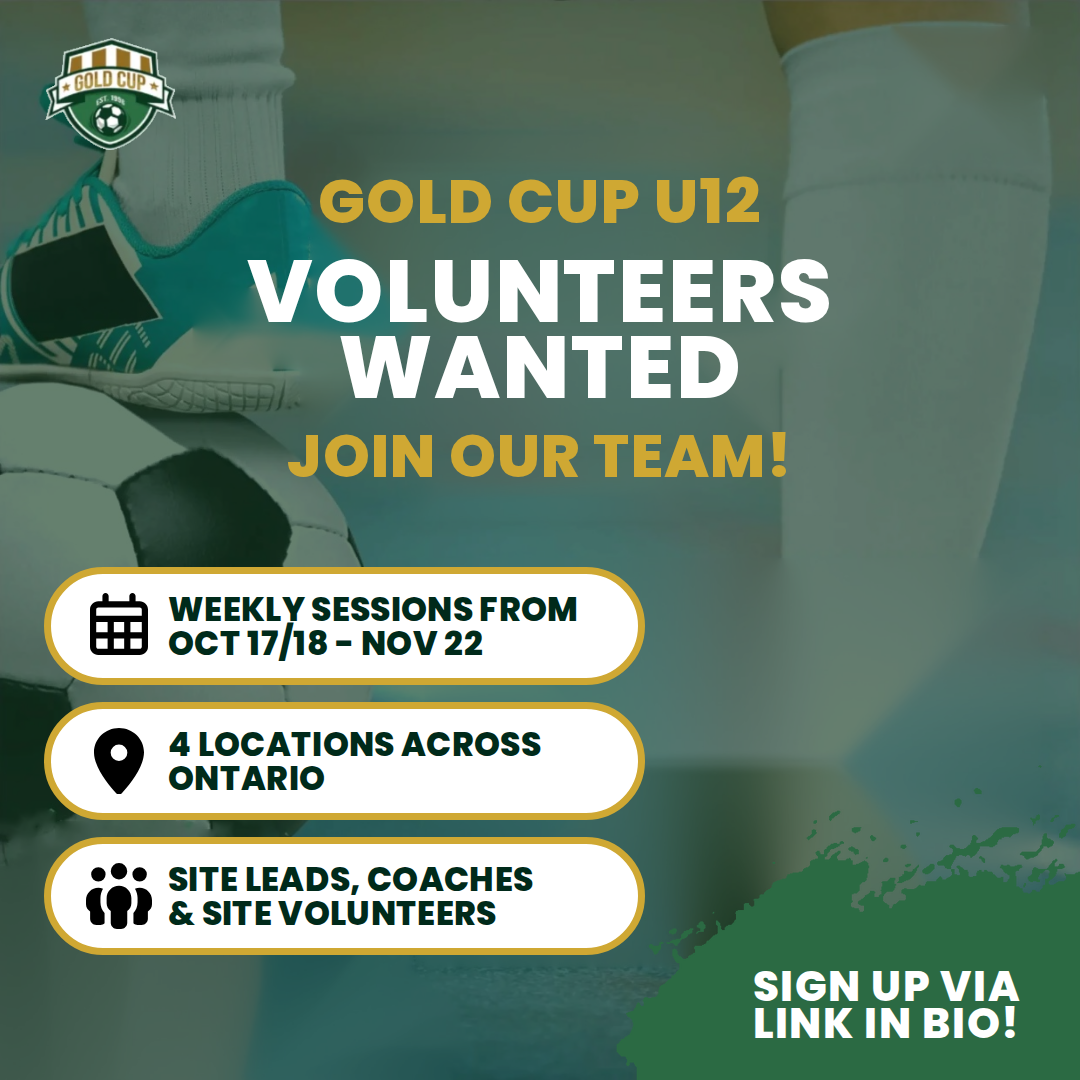
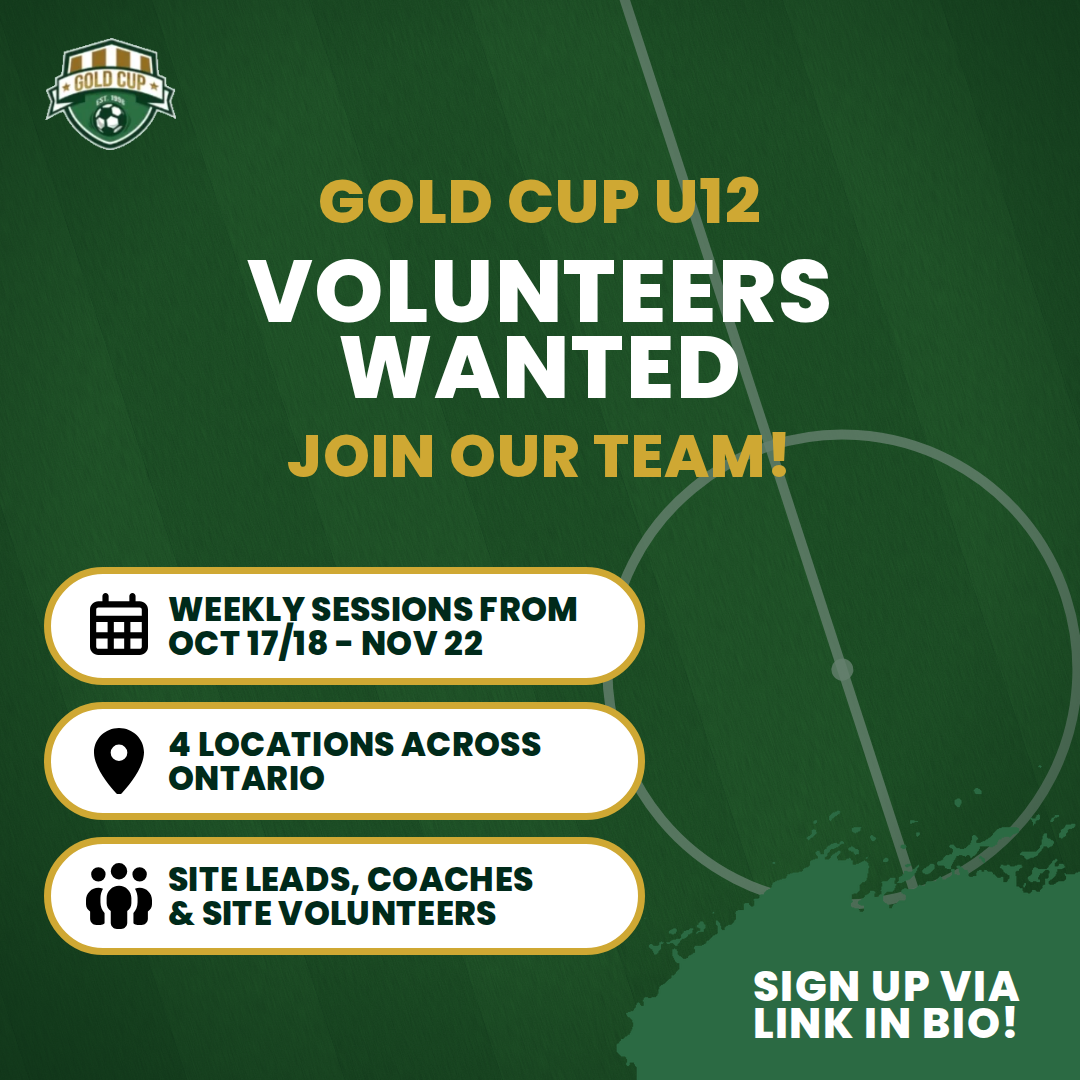
Add layouts and backgrounds to Gold Cup graphics kit
Posts were all one layout on one photo, which reads as repetitive in a
feed. Brand pieces stay fixed; each post now picks a layout (info,
callout, countdown) and a background (photo or drawn pitch/net).
Adds a recreation of the volunteer callout post as a second
calibration reference.

Claude-Session: https://claude.ai/code/session_011NCyf21LWwMLcWSEt48o9K

diff --git a/gold-cup-graphics/template.html b/gold-cup-graphics/template.html
@@ -19,42 +19,62 @@
   .frame { position: relative; width: 1080px; height: 1080px; overflow: hidden;
            font-family: "Poppins", sans-serif; font-weight: 800; text-transform: uppercase; }
 
-  .photo-wrap { position: absolute; inset: 0; overflow: hidden; }
-  .photo { width: 100%; height: 100%; object-fit: cover; display: block; }
+  .bg { position: absolute; inset: 0; overflow: hidden; }
+  .bg img, .bg svg { width: 100%; height: 100%; object-fit: cover; display: block; }
   .overlay { position: absolute; inset: 0; background: var(--photo-overlay); }
-
   .logo { position: absolute; left: 45px; top: 38px; width: 131px; }
 
-  /* text-box trim makes every line box exactly cap-height tall, so gaps below are cap-to-cap */
+  /* text-box trim makes every line box exactly cap-height tall, so margins below are cap-to-cap */
   .line { text-box: trim-both cap alphabetic; white-space: nowrap; }
 
-  .headline-zone { position: absolute; left: 0; right: 0; top: 110px;
-                   display: flex; flex-direction: column; align-items: center; justify-content: center; }
+  .stack { position: absolute; left: 0; right: 0; top: 110px;
+           display: flex; flex-direction: column; align-items: center; justify-content: center; }
+  .layout-callout .stack, .layout-countdown .stack { justify-content: flex-end; }
+
   .kicker  { color: var(--gold);  font-size: 62px; letter-spacing: 0.02em; }
+  .number  { color: var(--gold);  font-size: 330px; letter-spacing: -0.02em; }
   .head    { color: var(--white); font-size: 88px; letter-spacing: 0.02em; }
-  .tagline { color: var(--gold);  font-size: 60px; letter-spacing: 0.02em; }
-  .kicker + .head, .head + .tagline { margin-top: 37px; }
+  .sub     { color: var(--gold);  font-size: 60px; letter-spacing: 0.02em; }
+  .layout-callout .head { font-size: 103px; letter-spacing: 0.01em; }
+
+  .stack > * + * { margin-top: 37px; }
   .head + .head { margin-top: 13px; }
+  .sub + .sub { margin-top: 10px; }
+  .layout-callout .head + .head { margin-top: 14px; }
+  .layout-callout .head + .sub { margin-top: 40px; }
+  .number + .head { margin-top: 44px; }
+  .kicker + .number { margin-top: 60px; }
 
   .pills { position: absolute; left: 44px; bottom: 125px; display: flex; flex-direction: column; gap: 17px; }
   .pill { width: 601px; height: 118px; background: var(--white); border: 7px solid var(--gold);
           border-radius: 59px; display: flex; align-items: center; }
   .pill .icon { width: 72px; height: 66px; margin-left: 32px; flex: none; object-fit: contain; }
-  .pill .line { letter-spacing: 0.01em; }
   .pill .text { margin-left: 13px; color: var(--pill-text); font-size: 33px;
                 display: flex; flex-direction: column; align-items: flex-start; gap: 11px; }
+  .pill .line { letter-spacing: 0.01em; }
+
+  .button { position: absolute; left: 160px; top: 789px; width: 759px; height: 135px; background: var(--white);
+            border: 9px solid var(--gold); border-radius: 68px; display: flex; align-items: center; justify-content: center;
+            color: var(--pill-text); font-size: 35px; }
+  .button.has-icon { padding-right: 18px; }
+  .button .line { letter-spacing: 0.01em; }
+  .button .icon { position: absolute; right: -14px; bottom: -24px; width: 74px; height: 88px; }
 
   .brush { position: absolute; inset: 0; width: 100%; height: 100%; }
-
-  .cta .line { letter-spacing: 0.04em; }
   .cta { position: absolute; left: 687px; width: 400px; bottom: 42px; color: var(--white);
          font-size: 42px; display: flex; flex-direction: column; align-items: center; gap: 7px; }
+  .cta .line { letter-spacing: 0.04em; }
 </style>
 </head>
 <body>
 <div class="frame" id="frame"></div>
 <script>
-const LIMITS = { headWidth: 940, pillTextWidth: 445, ctaWidth: 360, zoneGapAbovePills: 21 };
+const LAYOUTS = {
+  info:      { head: 940, allowed: ['kicker', 'headline', 'sub', 'pills', 'cta'] },
+  callout:   { head: 960, allowed: ['kicker', 'headline', 'sub', 'button', 'cta'] },
+  countdown: { head: 940, allowed: ['kicker', 'number', 'headline', 'sub', 'pills', 'button', 'cta'] },
+};
+const LIMITS = { sub: 960, pillText: 445, button: 640, cta: 360, gapAbovePills: 21, gapAbovePillsAnchored: 55, gapAboveButton: 81 };
 
 function el(tag, cls, parent, text) {
   const n = document.createElement(tag);
@@ -80,69 +100,160 @@ function textWidth(node) {
 }
 
 function shrinkToWidth(nodes, max, warnings, label) {
+  if (!nodes.length) return;
   const widest = Math.max(...nodes.map(textWidth));
-  if (widest <= max) return 1;
+  if (widest <= max) return;
   const k = max / widest;
   for (const n of nodes) n.style.fontSize = parseFloat(getComputedStyle(n).fontSize) * k + 'px';
   if (k < 0.8) warnings.push(`${label} shrunk to ${Math.round(k * 100)}% to fit; consider shorter copy`);
-  return k;
+}
+
+const asList = v => (v == null ? [] : Array.isArray(v) ? v : [v]);
+
+// Drawn backgrounds, for posts without a suitable photo. Colours are bright on purpose:
+// the shared overlay pulls them into the same tone as the photos.
+const PATTERNS = {
+  pitch({ angle = -18, x = 50, y = 50, r = 235 } = {}) {
+    const cx = 10.8 * x, cy = 10.8 * y, band = 150, lines = 'stroke="#fff" stroke-width="10" fill="none" opacity="0.8"';
+    let stripes = '';
+    for (let i = -10; i < 10; i++) stripes += `<rect x="${cx + i * band}" y="${cy - 1500}" width="${band}" height="3000" fill="${i % 2 ? '#3f8f3c' : '#368034'}"/>`;
+    return `<svg viewBox="0 0 1080 1080" xmlns="http://www.w3.org/2000/svg">
+      <defs>
+        <filter id="blades"><feTurbulence type="fractalNoise" baseFrequency="0.9 0.05" numOctaves="2" seed="7"/>
+          <feColorMatrix values="0 0 0 0 0  0 0 0 0 0  0 0 0 0 0  0 0 0 0.35 0"/></filter>
+        <filter id="grain"><feTurbulence type="fractalNoise" baseFrequency="0.75" numOctaves="3" seed="2"/>
+          <feColorMatrix values="0 0 0 0 1  0 0 0 0 1  0 0 0 0 1  0 0 0 0.12 0"/></filter>
+        <radialGradient id="vig" cx="50%" cy="45%" r="75%"><stop offset="55%" stop-opacity="0"/><stop offset="100%" stop-opacity="0.55"/></radialGradient>
+      </defs>
+      <g transform="rotate(${angle} ${cx} ${cy})">
+        ${stripes}
+        <rect x="${cx - 1500}" y="${cy - 1500}" width="3000" height="3000" filter="url(#blades)"/>
+        <line x1="${cx}" y1="${cy - 1500}" x2="${cx}" y2="${cy + 1500}" ${lines}/>
+        <circle cx="${cx}" cy="${cy}" r="${r}" ${lines}/>
+        <circle cx="${cx}" cy="${cy}" r="11" fill="#fff" opacity="0.8"/>
+      </g>
+      <rect width="1080" height="1080" filter="url(#grain)"/>
+      <rect width="1080" height="1080" fill="url(#vig)"/>
+    </svg>`;
+  },
+  net({ angle = 0, x = 50, y = 30 } = {}) {
+    const cell = 46;
+    return `<svg viewBox="0 0 1080 1080" xmlns="http://www.w3.org/2000/svg">
+      <defs>
+        <radialGradient id="sky" cx="${x}%" cy="${y}%" r="85%"><stop offset="0%" stop-color="#cfe6c9"/><stop offset="35%" stop-color="#4f8a55"/><stop offset="100%" stop-color="#0f2a16"/></radialGradient>
+        <radialGradient id="glow" cx="50%" cy="50%" r="50%"><stop offset="0%" stop-color="#fff" stop-opacity="0.9"/><stop offset="100%" stop-color="#fff" stop-opacity="0"/></radialGradient>
+        <pattern id="mesh" width="${cell}" height="${cell}" patternUnits="userSpaceOnUse" patternTransform="rotate(${45 + angle})">
+          <path d="M0 0H${cell}M0 0V${cell}" stroke="#fff" stroke-width="3.2" fill="none"/>
+          <circle r="3.6" fill="#fff"/>
+        </pattern>
+        <filter id="soft"><feGaussianBlur stdDeviation="2.2"/></filter>
+        <linearGradient id="depth" x1="0" y1="0" x2="1" y2="1"><stop offset="0%" stop-color="#fff"/><stop offset="100%" stop-color="#fff" stop-opacity="0.15"/></linearGradient>
+        <mask id="fade"><rect width="1080" height="1080" fill="url(#depth)"/></mask>
+        <filter id="grain"><feTurbulence type="fractalNoise" baseFrequency="0.75" numOctaves="3" seed="4"/>
+          <feColorMatrix values="0 0 0 0 1  0 0 0 0 1  0 0 0 0 1  0 0 0 0.1 0"/></filter>
+      </defs>
+      <rect width="1080" height="1080" fill="url(#sky)"/>
+      <circle cx="${10.8 * x - 260}" cy="${10.8 * y - 120}" r="190" fill="url(#glow)"/>
+      <circle cx="${10.8 * x + 300}" cy="${10.8 * y - 160}" r="150" fill="url(#glow)"/>
+      <g mask="url(#fade)" opacity="0.75">
+        <rect x="-200" y="-200" width="1480" height="1480" fill="url(#mesh)" filter="url(#soft)"/>
+      </g>
+      <rect width="1080" height="1080" fill="url(#mesh)" opacity="0.35" mask="url(#fade)"/>
+      <rect width="1080" height="1080" filter="url(#grain)"/>
+    </svg>`;
+  },
+};
+
+async function renderBackground(frame, post, warnings) {
+  const bg = el('div', 'bg', frame);
+  if (post.pattern) {
+    const make = PATTERNS[post.pattern.type];
+    if (!make) warnings.push(`unknown pattern "${post.pattern.type}" (use ${Object.keys(PATTERNS).join(', ')})`);
+    else bg.innerHTML = make(post.pattern);
+    return;
+  }
+  const img = await loadImg(bg, '', post.photo, warnings);
+  // focus is given in on-screen terms, so mirror its x when the photo is flipped
+  let [fx, fy] = (post.photoFocus || '50% 50%').split(/\s+/).map(parseFloat);
+  if (post.photoFlip) { fx = 100 - fx; bg.style.transform = 'scaleX(-1)'; }
+  img.style.objectPosition = img.style.transformOrigin = `${fx}% ${fy}%`;
+  img.style.transform = `scale(${post.photoZoom || 1})`;
 }
 
 window.render = async function (post) {
   const warnings = [];
+  const layoutName = post.layout || 'info';
+  const layout = LAYOUTS[layoutName];
+  if (!layout) return [`unknown layout "${layoutName}" (use ${Object.keys(LAYOUTS).join(', ')})`];
+  for (const key of ['kicker', 'number', 'headline', 'sub', 'pills', 'button', 'cta'])
+    if (post[key] != null && !layout.allowed.includes(key)) warnings.push(`"${key}" is not used by the ${layoutName} layout`);
+
   const frame = document.getElementById('frame');
   frame.innerHTML = '';
-  const waits = [];
-
-  const photo = loadImg(el('div', 'photo-wrap', frame), 'photo', post.photo, warnings);
-  waits.push(photo.then(img => {
-    // focus is given in on-screen terms, so mirror its x when the photo is flipped
-    let [fx, fy] = (post.photoFocus || '50% 50%').split(/\s+/).map(parseFloat);
-    if (post.photoFlip) fx = 100 - fx;
-    img.style.objectPosition = img.style.transformOrigin = `${fx}% ${fy}%`;
-    img.style.transform = `scale(${post.photoZoom || 1})`;
-    if (post.photoFlip) frame.querySelector('.photo-wrap').style.transform = 'scaleX(-1)';
-  }));
+  frame.className = `frame layout-${layoutName}`;
+  const waits = [renderBackground(frame, post, warnings)];
   el('div', 'overlay', frame);
   waits.push(loadImg(frame, 'logo', 'assets/logo.png', warnings));
 
-  const zone = el('div', 'headline-zone', frame);
-  if (post.kicker) el('div', 'line kicker', zone, post.kicker);
-  const heads = (post.headline || []).map(t => el('div', 'line head', zone, t));
-  if (post.tagline) el('div', 'line tagline', zone, post.tagline);
+  const stack = el('div', 'stack', frame);
+  const use = key => layout.allowed.includes(key) && post[key] != null;
+  if (use('kicker')) el('div', 'line kicker', stack, post.kicker);
+  if (use('number')) el('div', 'line number', stack, post.number);
+  const heads = use('headline') ? asList(post.headline).map(t => el('div', 'line head', stack, t)) : [];
+  const subs = use('sub') ? asList(post.sub).map(t => el('div', 'line sub', stack, t)) : [];
 
-  const pills = el('div', 'pills', frame);
+  let bottomTop = 955, gap = LIMITS.gapAbovePills;
   const pillLines = [];
-  for (const p of post.pills || []) {
-    const pill = el('div', 'pill', pills);
-    waits.push(loadImg(pill, 'icon', `assets/icons/${p.icon}.svg`, warnings));
-    const text = el('div', 'text', pill);
-    for (const t of p.lines) pillLines.push(el('div', 'line', text, t));
+  if (use('pills')) {
+    const pills = el('div', 'pills', frame);
+    for (const p of post.pills) {
+      const pill = el('div', 'pill', pills);
+      waits.push(loadImg(pill, 'icon', `assets/icons/${p.icon}.svg`, warnings));
+      const text = el('div', 'text', pill);
+      for (const t of asList(p.lines)) pillLines.push(el('div', 'line', text, t));
+    }
+    if (post.pills.length > 3) warnings.push('more than 3 pills breaks the grid');
+    bottomTop = () => pills.getBoundingClientRect().top;
+    // info centres its text block; bottom-anchored layouts need the gap the centring would give
+    if (layoutName !== 'info') gap = LIMITS.gapAbovePillsAnchored;
   }
-  if ((post.pills || []).length > 3) warnings.push('more than 3 pills breaks the grid');
-
-  waits.push(loadImg(frame, 'brush', 'assets/brush.png', warnings));
-  const cta = el('div', 'cta', frame);
-  const ctaLines = (post.cta || []).map(t => el('div', 'line', cta, t));
+  let buttonText = [];
+  if (use('pills') && use('button')) warnings.push('use pills or a button, not both — they overlap');
+  else if (use('button')) {
+    const button = el('div', 'button', frame);
+    buttonText = [el('div', 'line', button, post.button.text)];
+    if (post.button.icon) {
+      button.classList.add('has-icon');
+      waits.push(loadImg(button, 'icon', `assets/icons/${post.button.icon}.svg`, warnings));
+    }
+    bottomTop = 789;
+    gap = LIMITS.gapAboveButton;
+  }
+  let ctaLines = [];
+  if (use('cta')) {
+    waits.push(loadImg(frame, 'brush', 'assets/brush.png', warnings));
+    const cta = el('div', 'cta', frame);
+    ctaLines = asList(post.cta).map(t => el('div', 'line', cta, t));
+  }
 
   await document.fonts.ready;
   await Promise.all(waits);
 
-  if (heads.length) shrinkToWidth(heads, LIMITS.headWidth, warnings, 'headline');
-  if (pillLines.length) shrinkToWidth(pillLines, LIMITS.pillTextWidth, warnings, 'pill text');
-  if (ctaLines.length) shrinkToWidth(ctaLines, LIMITS.ctaWidth, warnings, 'call to action');
+  shrinkToWidth(heads, layout.head, warnings, 'headline');
+  shrinkToWidth(subs, LIMITS.sub, warnings, 'gold subline');
+  shrinkToWidth(pillLines, LIMITS.pillText, warnings, 'pill text');
+  shrinkToWidth(buttonText, LIMITS.button, warnings, 'button text');
+  shrinkToWidth(ctaLines, LIMITS.cta, warnings, 'call to action');
 
-  const pillsTop = (post.pills || []).length ? pills.getBoundingClientRect().top : 955;
-  const zoneHeight = pillsTop - LIMITS.zoneGapAbovePills - 110;
-  zone.style.height = zoneHeight + 'px';
-  const blockHeight = [...zone.children].reduce((h, n) => {
-    const r = n.getBoundingClientRect();
-    return h + r.height + parseFloat(getComputedStyle(n).marginTop);
-  }, 0);
+  const zoneHeight = (typeof bottomTop === 'function' ? bottomTop() : bottomTop) - gap - 110;
+  stack.style.height = zoneHeight + 'px';
+  const blockHeight = [...stack.children].reduce((h, n) =>
+    h + n.getBoundingClientRect().height + parseFloat(getComputedStyle(n).marginTop), 0);
   if (blockHeight > zoneHeight) {
     const k = zoneHeight / blockHeight;
-    zone.style.transform = `scale(${k})`;
-    warnings.push(`headline block scaled to ${Math.round(k * 100)}% to fit above the pills`);
+    stack.style.transformOrigin = layoutName === 'info' ? 'center' : 'center bottom';
+    stack.style.transform = `scale(${k})`;
+    warnings.push(`text block scaled to ${Math.round(k * 100)}% to fit; consider fewer lines`);
   }
   return warnings;
 };

diff --git a/gold-cup-graphics/README.md b/gold-cup-graphics/README.md
@@ -1,45 +1,64 @@
 # Gold Cup Instagram graphics
 
-Renders 1080×1080 Instagram posts in the Gold Cup "U12 Development Program is back" style.
-Layout, type sizes and colours are measured from the original post, so every graphic comes out
-on the same grid. `out/00-u12-program-is-back.png` is a recreation of the original, kept as a check.
+Renders 1080×1080 Instagram posts in the Gold Cup style. The brand parts never change: font, colours, logo,
+photo overlay, pill and button styles. Each post picks a layout and a background, so the feed doesn't repeat itself.
+
+`out/ref-1-u12-program.png` and `out/ref-2-volunteer-callout.png` recreate two real Gold Cup posts. They're
+the calibration check: if a change to `template.html` makes them drift from the originals, the change is off-brand.
 
 ## Make a new post
 
-1. Copy a file in `posts/` (e.g. `01-volunteers-wanted.json`) and edit the text.
+1. Copy a file in `posts/` that has the layout you want, then edit the text.
 2. `npm install` (first time only), then `npm run render` — PNGs land in `out/`.
    Render one file with `node render.mjs posts/my-post.json`.
 3. Read the warnings it prints. "Shrunk to N%" means the copy is too long; shorten it rather than accept tiny text.
 
-| Field | What it is | Keep it to |
-| --- | --- | --- |
-| `kicker` | Gold line above the headline | a few words |
-| `headline` | White lines, one string per line | 1–4 lines, ~12 characters each |
-| `tagline` | Gold line under the headline | a short exclamation |
-| `pills` | `{ "icon", "lines" }` info badges | 2–3 pills, 2 lines each, ~20 characters per line |
-| `cta` | White text on the green brush, bottom right | 1–2 lines, ~13 characters each |
-| `photo` | Background photo path | a real session photo |
-| `photoFlip`, `photoZoom`, `photoFocus` | Optional framing (`true`, `1.2`, `"100% 60%"`) | |
+## Layouts
 
-Icons (`assets/icons/`): `calendar-days`, `clock`, `location-dot`, `trophy`, `medal`, `people-group`,
-`users`, `user-plus`, `hand-holding-heart`, `graduation-cap`, `clipboard-list`, `bullhorn`, `futbol`.
-More can be copied from Font Awesome Free (solid set).
+| `layout` | Use it for | Fields |
+| --- | --- | --- |
+| `info` | Announcements with details (the U12 "is back" post) | `kicker`, `headline`, `sub`, `pills` (≤3), `cta` |
+| `callout` | A question or one clear action (the volunteer post) | `kicker`, `headline` (bigger), `sub`, `button` |
+| `countdown` | "3 days to go", "4 locations", any big number | `kicker`, `number`, `headline`, `sub`, `pills` or `button`, `cta` |
+
+- `kicker` / `sub`: gold lines above / below the white headline. `sub` can be one line or a list.
+- `headline`: white lines, one string per line, ~12 characters each.
+- `pills`: `{ "icon": "...", "lines": ["...", "..."] }`, 2 lines of ~20 characters.
+- `button`: `{ "text": "...", "icon": "cursor-click" }` — the wide white button; the icon is optional.
+- `cta`: 1–2 short lines on the green brush stroke, bottom right.
+
+## Backgrounds — vary these
+
+Every background gets the same deep-green overlay, so different backgrounds still read as one series.
+Don't use the same background two posts in a row.
+
+- A photo: `"photo": "assets/photos/x.jpg"`, optionally `"photoFlip": true`, `"photoZoom": 1.4`,
+  `"photoFocus": "50% 0%"` (which part of the photo stays in frame). Close-ups and flips of one photo
+  can look like a new shot.
+- A drawn pitch: `"pattern": { "type": "pitch", "angle": -18, "x": 78, "y": 62, "r": 235 }`. `x`/`y` (percent)
+  place the centre circle, `angle` turns the field, `r` sizes the circle. Put the circle behind a countdown number.
+- A goal net: `"pattern": { "type": "net", "x": 55, "y": 22 }`. `x`/`y` place the floodlight glow.
+
+Real session photos are the best option. Drop them in `assets/photos/` and don't pre-edit them;
+action shots and details (boots, balls, cones, bibs, clipboards) work better than faces behind text.
+
+Icons (`assets/icons/`): `calendar-days`, `clock`, `location-dot`, `trophy`, `medal`, `people-group`, `users`,
+`user-plus`, `hand-holding-heart`, `graduation-cap`, `clipboard-list`, `bullhorn`, `futbol`, `hand-pointer`,
+`cursor-click`. More can be copied from Font Awesome Free (solid set).
 
 ## Brand spec
 
 - Font: Poppins ExtraBold (800), all caps, everywhere.
-- Colours: gold `#CFA833` (kicker, tagline, pill borders), white `#FFFFFF` (headline, pills, CTA),
-  pill text `#002A1A`, icons black, brush green `#2B6A43`.
-- Photo treatment: any photo gets a `rgba(11, 54, 26, 0.63)` deep-green overlay — this is what makes
-  different photos look like one series. Don't pre-edit photos.
-- Grid: logo top-left; headline block centred above the pills; pills left-aligned and bottom-anchored;
-  CTA centred on the brush stroke.
+- Colours: gold `#CFA833` (kicker, sub, number, borders), white `#FFFFFF` (headline, pills, button, CTA),
+  pill/button text `#002A1A`, icons black, brush green `#2B6A43`.
+- Overlay on every background: `rgba(11, 54, 26, 0.63)`.
+- Logo always top-left; text centred; pills left-aligned and bottom-anchored; button centred at the bottom.
 
 ## Before posting for real
 
 - `assets/logo.png` was cut out of a screenshot and is soft. Replace it with the official logo file
   (transparent PNG, same crest).
-- `assets/photos/cleat-and-ball.jpg` is the original post's photo with the text removed — a stand-in.
-  Use real Gold Cup session photos; action shots without visible faces work best behind the text.
+- Both photos in `assets/photos/` are Gold Cup's own post photos with the text digitally removed, so they
+  have soft patches where the text was. Fine behind new text, but replace them with originals or new photos when you can.
 
 Licences: Poppins (SIL OFL, `assets/fonts/OFL.txt`), Font Awesome Free icons (CC BY 4.0, `assets/icons/LICENSE.txt`).
